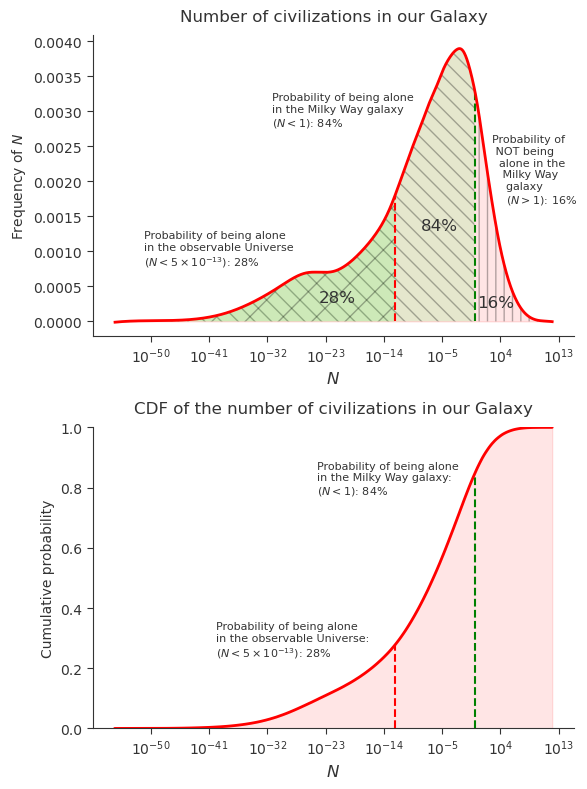
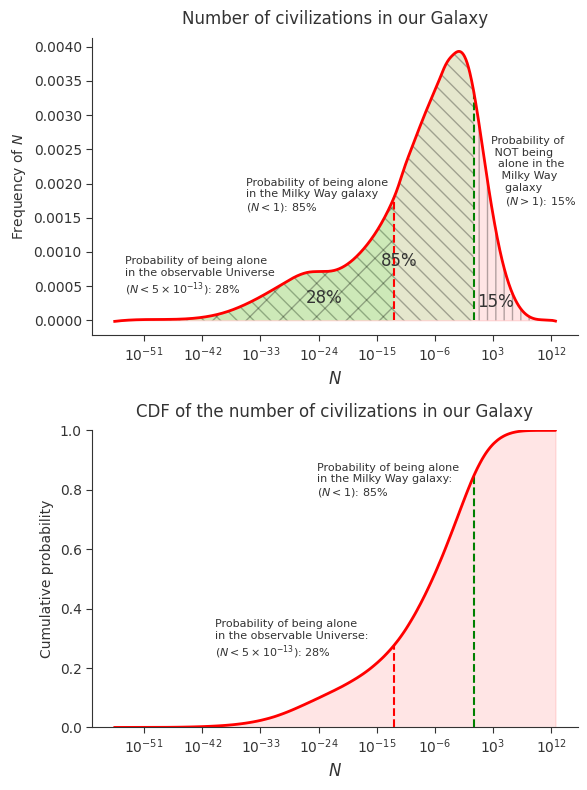
Data update

diff --git a/Drake_Metaculus.py b/Drake_Metaculus.py
@@ -703,8 +703,8 @@ ax1.vlines(x = 1,
 probability_alone_MW = ecdft(1)*100
 formatted_probability = f"{probability_alone_MW:.0f}%"
 text = "Probability of being alone \nin the Milky Way galaxy \n($N < 1$): " + formatted_probability
-ax1.text(5*10**-32, 0.0028, text, fontsize = 8, color = custom_dark_gray)
-ax1.text(5*10**-9, 0.0013, f'{probability_alone_MW:.0f}%', fontsize = 12, color = custom_dark_gray)
+ax1.text(5*10**-36, 0.0016, text, fontsize = 8, color = custom_dark_gray)
+ax1.text(5*10**-15, 0.0008, f'{probability_alone_MW:.0f}%', fontsize = 12, color = custom_dark_gray, zorder = 5)
 
 #---------------------------------------
 # Alone in the observable Universe hatch filling and line
@@ -730,8 +730,8 @@ ax1.vlines(x = 5*10**-13,
 probability_alone_OU = ecdft(5*10**-13)*100
 formatted_probability = f"{probability_alone_OU:.0f}%"
 text = "Probability of being alone \nin the observable Universe \n($N < 5 \\times 10^{{-13}}$): " + formatted_probability
-ax1.text(10**-51, 0.0008, text, fontsize = 8, color = custom_dark_gray)
-ax1.text(10**-24, 0.00028, f'{probability_alone_OU:.0f}%', fontsize = 12, color = custom_dark_gray)
+ax1.text(10**-54, 0.0004, text, fontsize = 8, color = custom_dark_gray)
+ax1.text(10**-26, 0.00025, f'{probability_alone_OU:.0f}%', fontsize = 12, color = custom_dark_gray)
 
 #-------------------------------------------------------------------------------------------
 # N CDF
